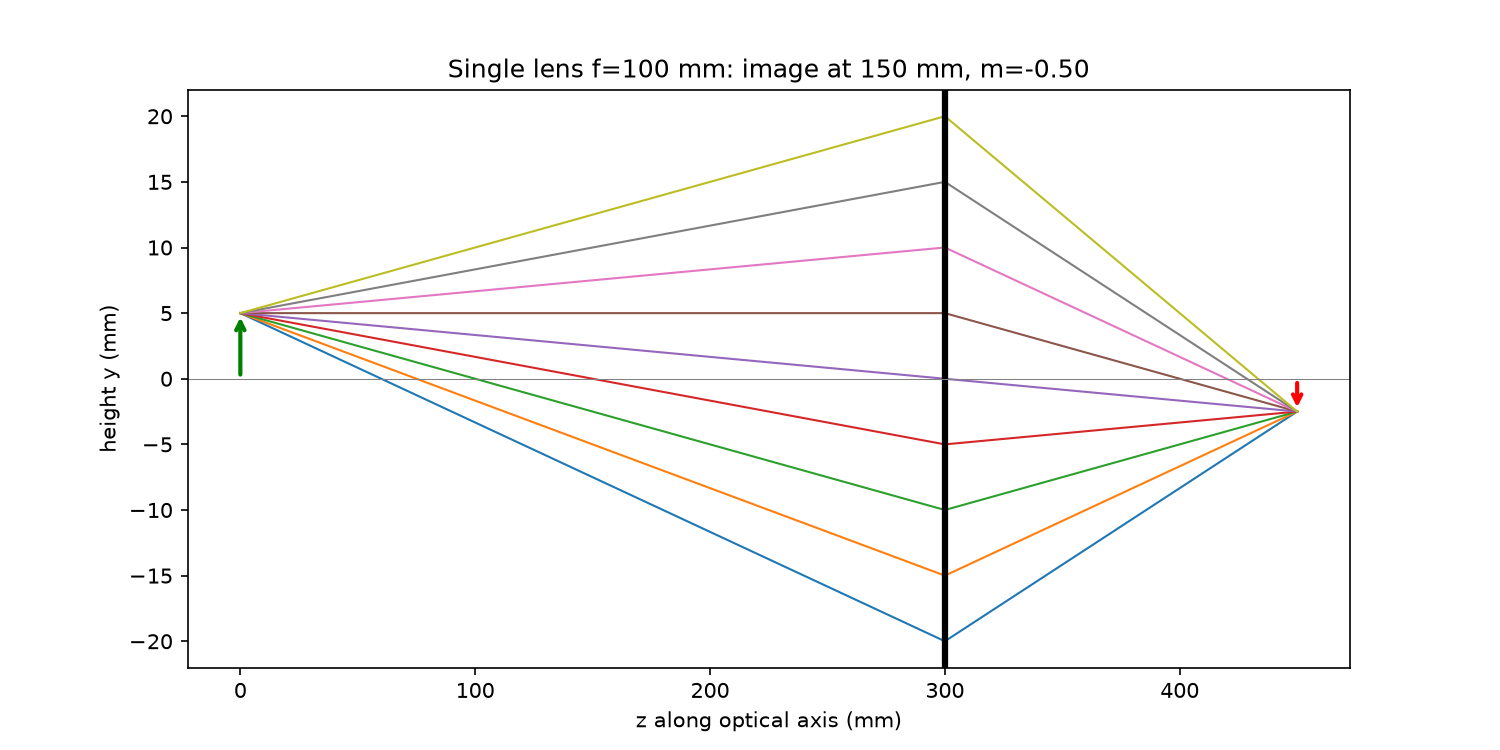
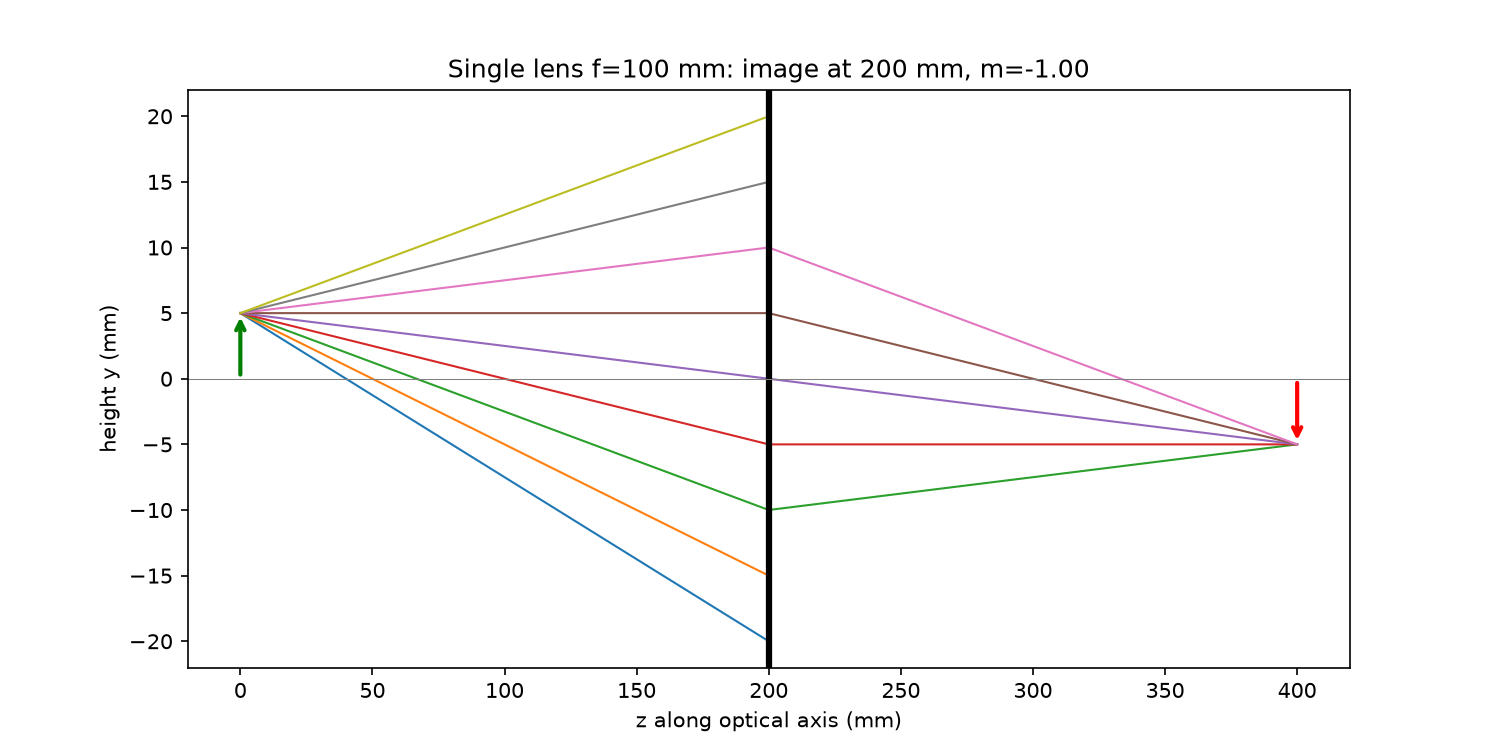
Update demo_single_lens.py: adjust object distance and add Aperture component example

diff --git a/examples/demo_single_lens.py b/examples/demo_single_lens.py
@@ -9,9 +9,9 @@ Run it and see whether the program agrees!
 import matplotlib.pyplot as plt
 import numpy as np
 from opticslab import (Ray, Space, ThinLens, OpticalSystem,
-                       effective_focal_length, image_distance_and_magnification)
+                       effective_focal_length, image_distance_and_magnification, Aperture)
 
-S, F, H = 300.0, 100.0, 5.0       # object distance, focal length, object height (mm)
+S, F, H = 200.0, 100.0, 5.0       # S = object distance, F = focal length, H = object height (mm)
 
 lens_only = OpticalSystem([ThinLens(F)])
 d, m = image_distance_and_magnification(lens_only, S)
@@ -21,6 +21,9 @@ print(f"Magnification  = {m:.3f}  (negative = upside-down)")
 
 # Full system for tracing: object space -> lens -> image space
 system = OpticalSystem([Space(S), ThinLens(F), Space(d)])
+
+# Full system for tracing: object space -> Aperture -> lens -> image space
+#system = OpticalSystem([Space(S), Aperture(10), ThinLens(F), Space(d)])
 
 fig, ax = plt.subplots(figsize=(10, 5))
 for y_lens in np.linspace(-20, 20, 9):          # aim 9 rays at different lens heights
